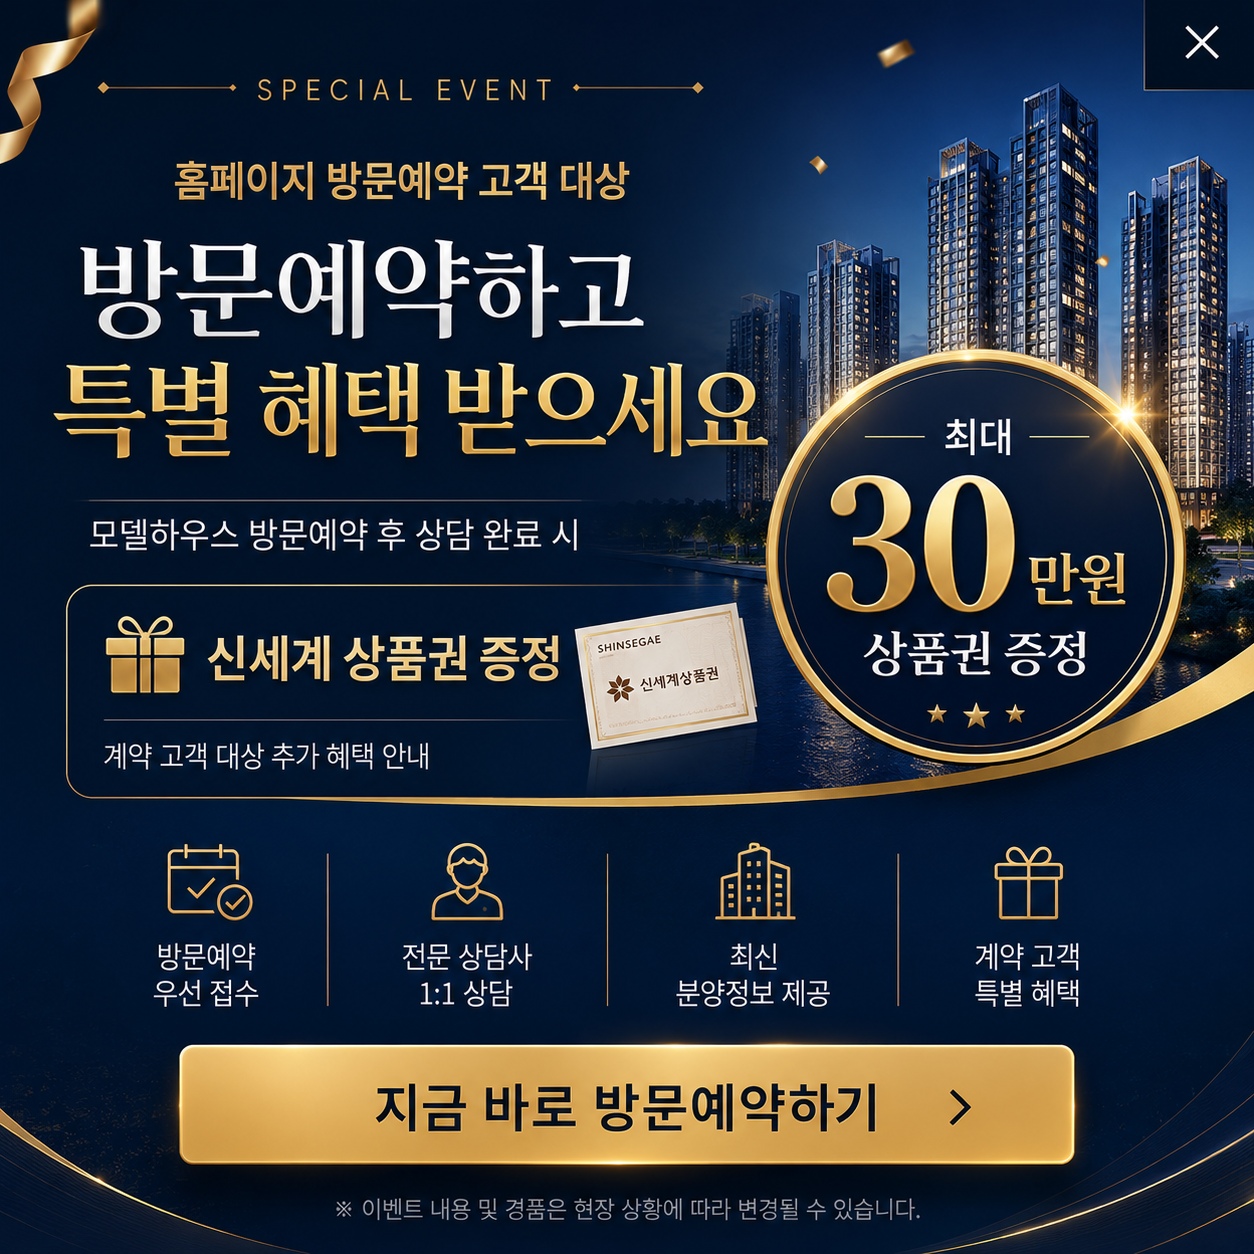
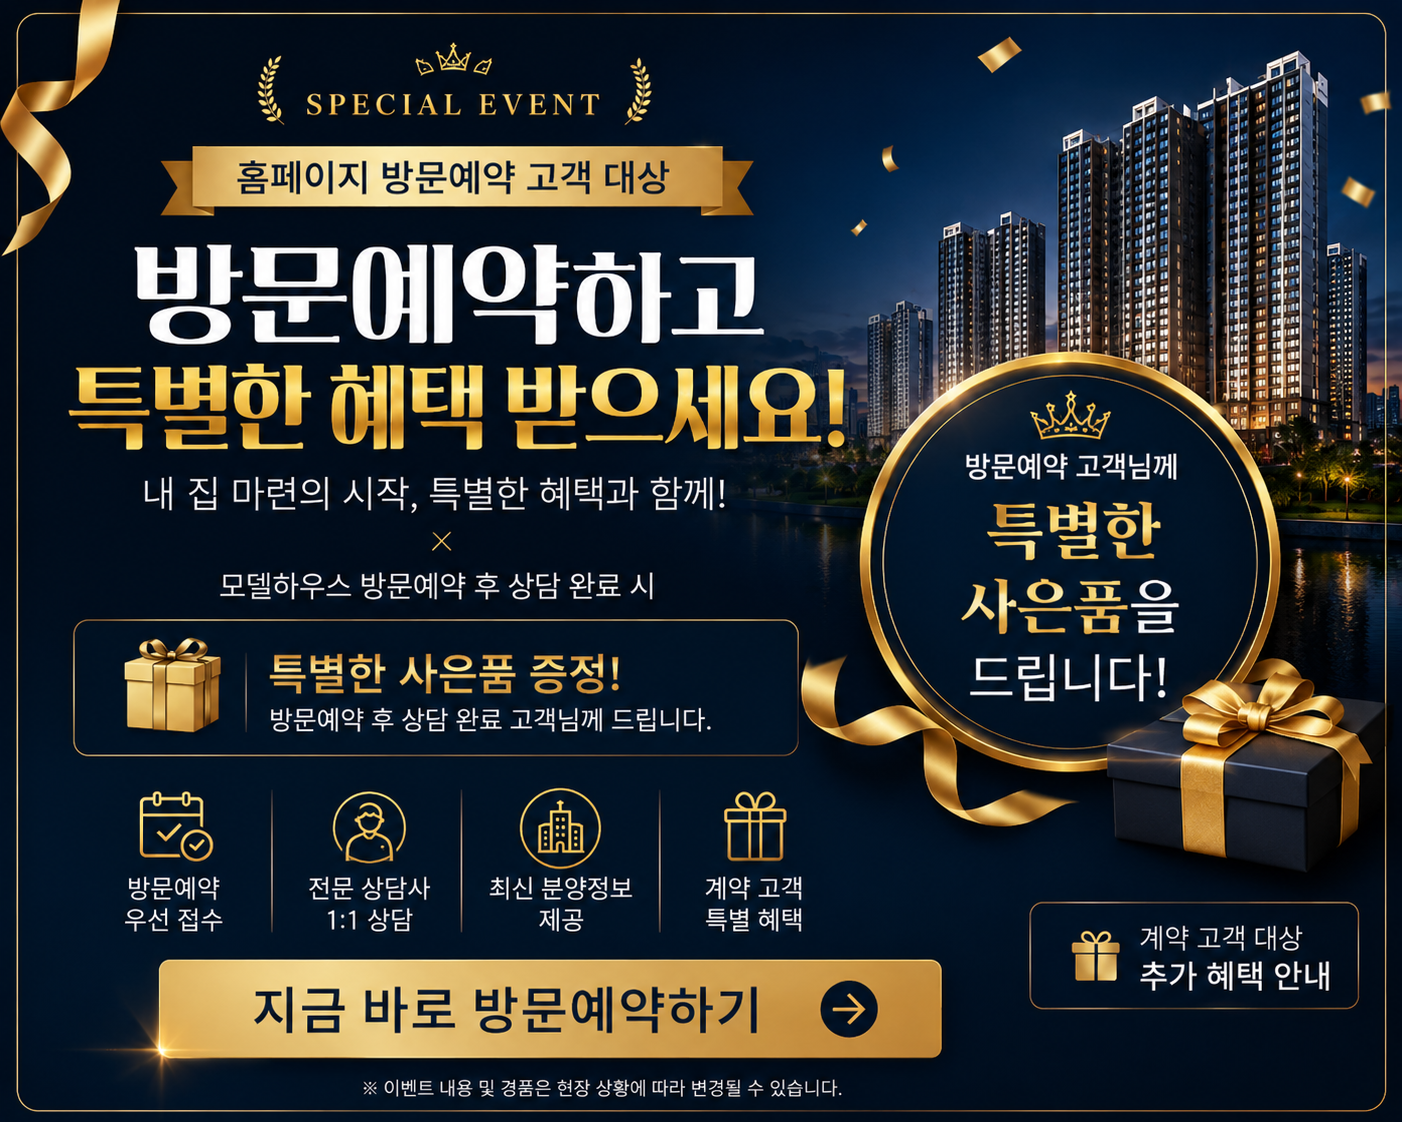
feat : 변경

diff --git a/src/components/InterestPopup/InterestPopup.jsx b/src/components/InterestPopup/InterestPopup.jsx
@@ -28,7 +28,7 @@ const InterestPopup = ({ onClose, registration, handleInputChange }) => {
     e.preventDefault();
     setIsSubmitting(true);
     try {
-      const res = await fetch("https://formspree.io/f/mojoleaz", {
+      const res = await fetch("https://formspree.io/f/xgojqpvo", {
         method: "POST",
         headers: { "Content-Type": "application/json" },
         body: JSON.stringify(registration),

diff --git a/src/components/ReservationSection/reservationData.js b/src/components/ReservationSection/reservationData.js
@@ -5,7 +5,7 @@ const reservationData = {
     "엘리프 고덕 센트럴하이 방문예약을 남겨주시면 전문 상담원이 순차적으로 연락드려 모델하우스 위치, 방문 가능 시간, 상담 준비 사항을 안내드립니다.",
   notice:
     "방문 전 관심 평형과 상담 희망 내용을 남겨주시면 전체평면 비교와 청약 일정, 계약 조건 상담을 더 정확하게 도와드릴 수 있습니다.",
-  formAction: "https://formspree.io/f/mojoleaz",
+  formAction: "https://formspree.io/f/xgojqpvo",
   points: [
     {
       id: "address",

diff --git a/src/pages/Promotion/Customer.jsx b/src/pages/Promotion/Customer.jsx
@@ -34,7 +34,7 @@ export default function Customer() {
     setResultMessage("");
 
     try {
-      const res = await fetch("https://formspree.io/f/mojoleaz", {
+      const res = await fetch("https://formspree.io/f/xgojqpvo", {
         method: "POST",
         headers: { "Content-Type": "application/json" },
         body: JSON.stringify({